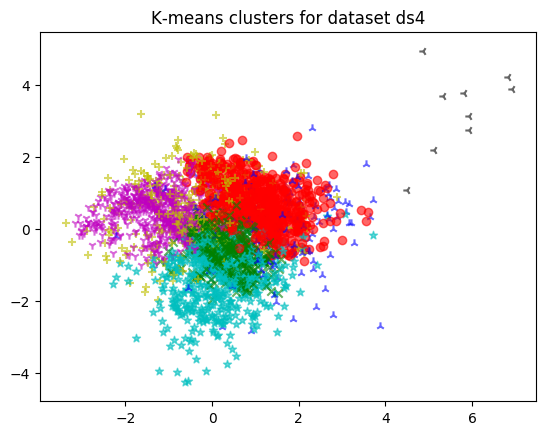
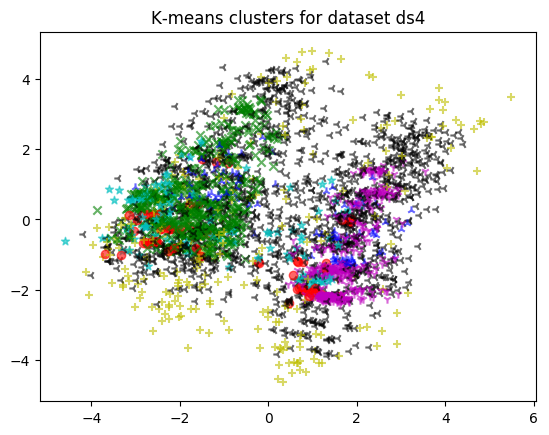
snap

diff --git a/bin/part2.py b/bin/part2.py
@@ -1,0 +1,101 @@
+#!/usr/bin/env python
+import warnings
+warnings.filterwarnings("ignore")
+
+
+import sys
+from os.path import dirname,abspath
+sys.path.append(dirname(__file__))
+import pathlib
+
+import yaml
+from utils import *
+from cluster_lib import *
+
+import argparse
+
+
+
+
+
+def get_dim_reducer(dataset, algo, k=None):
+    from sklearn.decomposition import PCA,FastICA
+
+    X_train, y_train, X_test, y_test =  get_prepared_training_and_test_data(dataset)
+    features = X_train.shape[1]
+    
+    if not k:
+        k = features
+
+        
+    cache = f"{root}/datasets/{dataset}/dimreducer-{algo}-{k}.pkl"
+    if os.path.exists(cache):
+        reducer = joblib.load(cache)
+        print(f"Read {cache}")
+        return reducer
+    
+    if algo=="pca":
+        reducer = PCA(n_components=k)
+    elif algo=="ica":
+        reducer = FastICA(n_components=k, whiten=True)
+    else:
+        sys.exit(f"1 Unknown dim red algo '{algo}'")
+
+    timeit(lambda: reducer.fit(X_train), f"{algo} projection calculation for {dataset}, k={k}")
+    #reduced_X_train=timeit(lambda: reducer.transform(X_train), f"{algo} projection execution for {dataset}")
+
+    joblib.dump(reducer, cache)
+    print(f"Wrote {cache}")
+    return reducer
+
+from scipy.stats import kurtosis
+def describe_dim_reduction(dataset, algo, k=None):
+    X_train_raw, y_train_raw, X_test, y_test =  get_prepared_training_and_test_data(dataset)
+    
+    features = X_train.shape[1]
+    reducer = get_dim_reducer(dataset, algo, k=k)
+    X_train_reduced = reducer.transform(X_train)
+    print(f"X var:",np.var(X_train, axis=0))
+    print("X mean:",np.mean(X_train, axis=0))
+    print(f"X kurtosis:",kurtosis(X_train, axis=0))
+    print(f"{algo} var:",np.var(X_train_reduced, axis=0))
+    print(f"{algo} kurtosis:",kurtosis(X_train_reduced, axis=0))
+
+    
+    
+    
+
+if __name__ == '__main__':
+    parser = argparse.ArgumentParser(description = 'part2 util')
+
+    parser.add_argument("-a", "--action", required=True, help="action")
+    parser.add_argument("-s", "--dataset", required=False, help="dataset name, eg: ds1)")
+    parser.add_argument("-k", required=False, help="specify k")
+    parser.add_argument("-d", "--dralgo", required=False, help="dimension reduction algorithm (eg: pca)")
+    parser.add_argument("-r", "--reclean", action="store_const", const=True, default=False, help="rerun data clean commands")    
+    opts = parser.parse_args()
+    dataset = opts.dataset
+    k = opts.k
+    if k:
+        k=int(k)
+    if opts.action=="list":
+        for ds in spec['datasets']:
+            print(f"{ds}:    {spec['datasets'][ds]['name']}")
+        exit(0)
+    elif opts.action=="make-dim-reducer":
+        if not dataset:
+            sys.exit(f"Must specify dataset for {opts.action} action with --dataset <ds>")
+        if not opts.dralgo:
+            sys.exit(f"Must specify dim reduction algo for {opts.action} action with --dralgo <algo>")
+        reducer = get_dim_reducer(dataset, opts.dralgo, k=k)
+    elif opts.action=="describe-dim-reduction":
+        if not dataset:
+            sys.exit(f"Must specify dataset for {opts.action} action with --dataset <ds>")
+        if not opts.dralgo:
+            sys.exit(f"Must specify dim reduction algo for {opts.action} action with --dralgo <algo>")
+        describe_dim_reduction(dataset, opts.dralgo, k=k)
+
+        
+    else:
+        print(f"Action not implemented: {opts.action}")
+        exit(1)

diff --git a/bin/utils.py b/bin/utils.py
@@ -724,12 +724,12 @@ def eval_X_impedence_mismatch(dataset, X_train, X_train_prepared, X_test, X_test
 
 
 def get_prepared_training_and_test_data(dataset, df=None, rerun=False, reclean=False):
-
+    from sklearn import preprocessing
     X_train, y_train, X_test, y_test = get_raw_training_and_test_data(dataset, df=None, rerun=rerun, reclean=reclean)
     if X_train.shape[1] != X_test.shape[1]:
         raise(ValueError(f"Dataset {dataset} : X_train cols ({X_train.shape[1]}) != X_test cols ({X_test.shape[1]})"))
-    else:
-        print(f"Carry on... {dataset} : X_train cols ({X_train.shape[1]}) == X_test cols ({X_test.shape[1]})")
+    #else:
+        #print(f"Carry on... {dataset} : X_train cols ({X_train.shape[1]}) == X_test cols ({X_test.shape[1]})")
     
     dataprep_pipeline1 = get_dataprep_pipeline(dataset) 
     X_train_prepared = dataprep_pipeline1.fit_transform(X_train)
@@ -739,8 +739,8 @@ def get_prepared_training_and_test_data(dataset, df=None, rerun=False, reclean=F
     if X_train_prepared.shape[1] != X_test_prepared.shape[1]:
         eval_X_impedence_mismatch(dataset, X_train, X_train_prepared, X_test, X_test_prepared)
         raise(ValueError(f"Dataset {dataset} : X_train_prepared cols ({X_train_prepared.shape[1]}) != X_test_prepared cols ({X_test_prepared.shape[1]})"))
-    else:
-        print(f"Carry on... {dataset} : X_train_prepared cols ({X_train_prepared.shape[1]}) == X_test_prepared cols ({X_test_prepared.shape[1]})")
+    #else:
+    #    print(f"Carry on... {dataset} : X_train_prepared cols ({X_train_prepared.shape[1]}) == X_test_prepared cols ({X_test_prepared.shape[1]})")
 
 
     # balance it out...
@@ -757,8 +757,11 @@ def get_prepared_training_and_test_data(dataset, df=None, rerun=False, reclean=F
             sampler = eval(sampler_code)
             X_train_prepared, y_train = sampler.fit_sample(X_train_prepared, y_train)
 
-
-    return X_train_prepared, y_train, X_test_prepared, y_test
+    # standardize (0 mean, 1 variance)
+    X_train_scaled = preprocessing.scale(X_train_prepared)
+    X_test_scaled  = preprocessing.scale(X_test_prepared)
+    #print("HELLO")
+    return X_train_scaled, y_train, X_test_scaled, y_test
 
      
 # def get_classifiers_assignment1():
